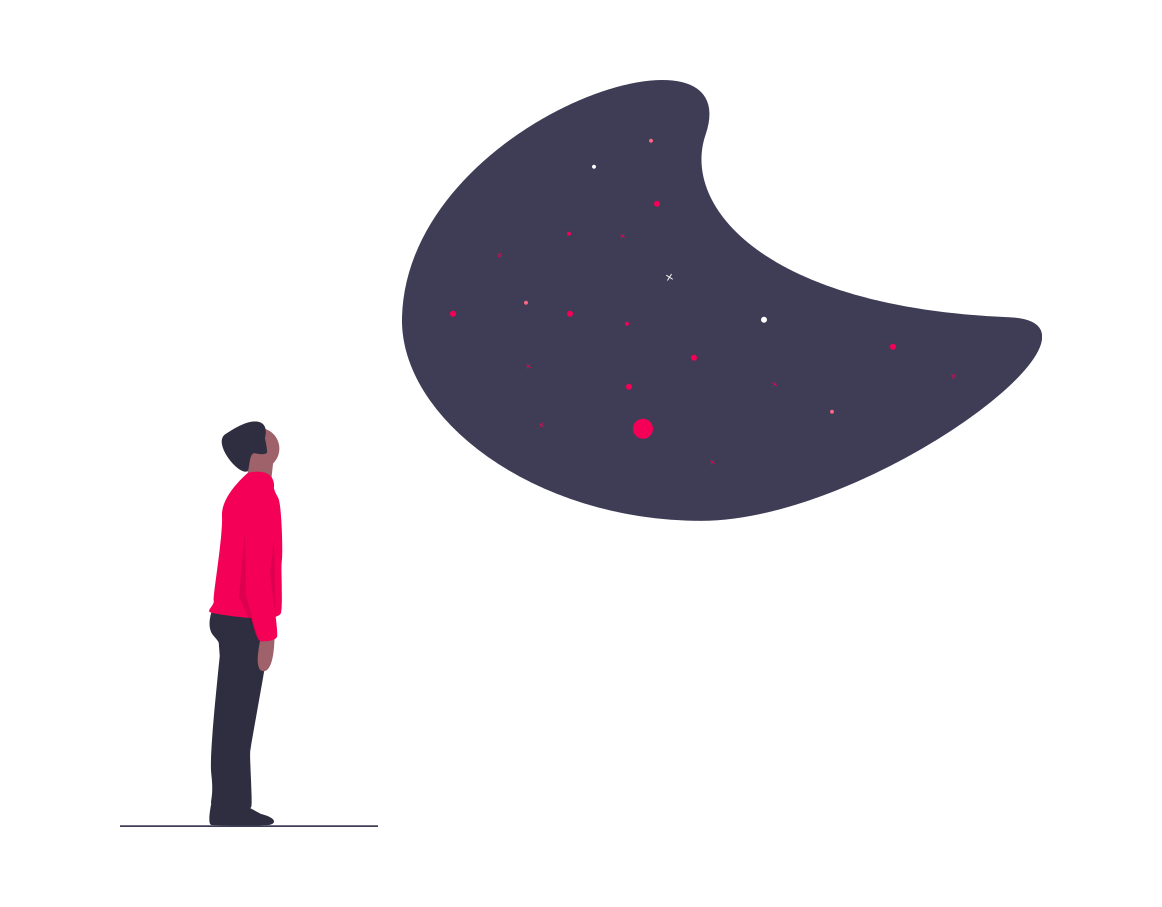
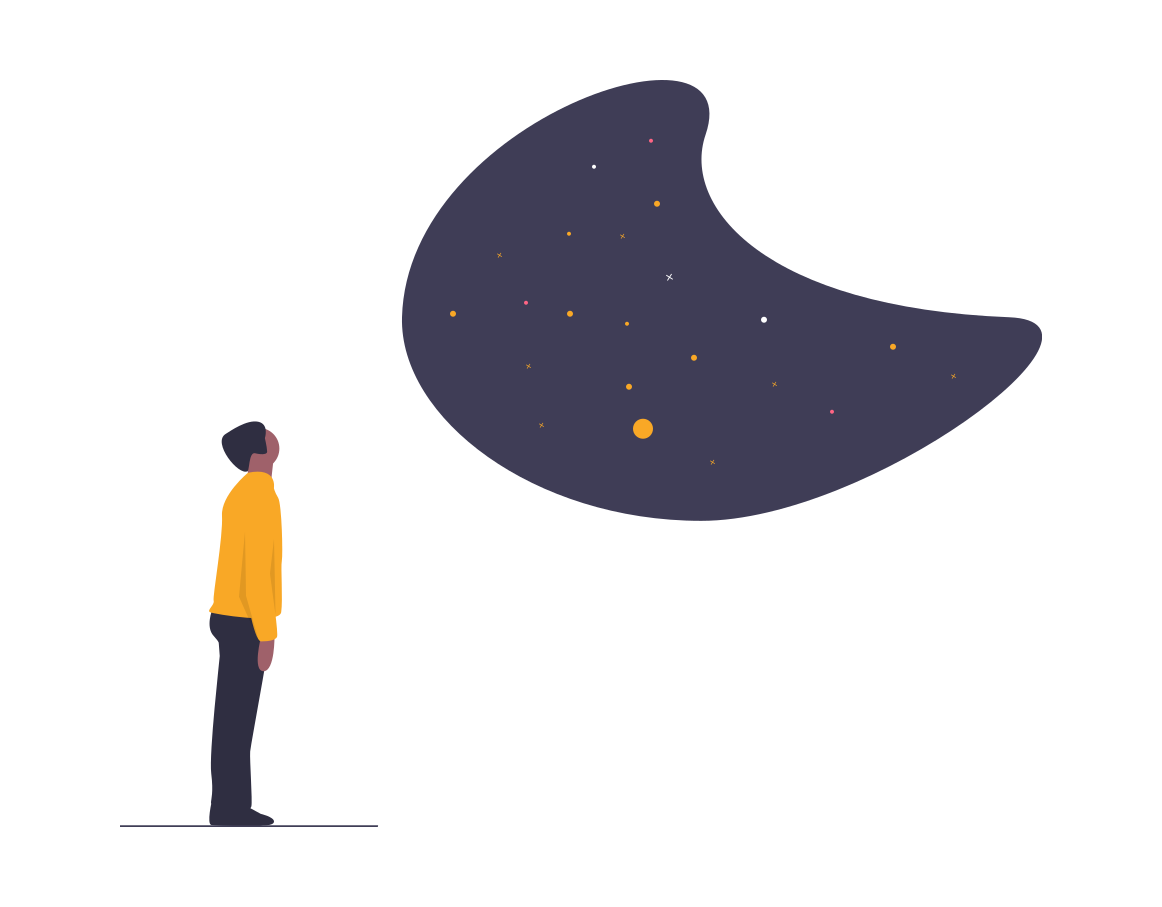
updated coverimages

Changed region(s): [[0.1859, 0.5248, 0.2478, 0.71], [0.5267, 0.4631, 0.5577, 0.4939]]

diff --git a/_drafts/2021-05-19-P003-features-unique-to-python-p1.md b/_drafts/2021-05-19-P003-features-unique-to-python-p1.md
@@ -1,0 +1,92 @@
+---
+title:  "🖐 Listed | 5 Features Unique to Python"
+layout: post
+categories: [python]
+image: /assets/img/P003/cover.png
+description: "Including a list of language specific features that I wish I knew when I had started using python for my projects. This part lists features specific to Lists, Dicts and Functions."
+customexcerpt: "Including a list of language specific features that I wish I knew when I had started using python for my projects. This part lists features specific to Lists, Dicts and Functions."
+---
+![Cover](assets/img/P003/cover.png)
+Illustration Source: "Online Reading" from [https://undraw.co](https://undraw.co/){:target="_blank"}
+
+Python has topped as one of the most sought-after programming language in recent times. Mostly due to its simplicity and a feature-set that makes coding a breeze. This has in turn lead to several tutorials for pythons focusing more on beginner-level topics, but when you look for places to get out of that initial shell, the material is scarce. I am writing this article to act as a bridge in such a case.
+
+This article focuses on Lists, Dictionaries, and Functions. You can use below [Index](#index) as a reference and skip to topics that are relevant to you. Each item is complete in itself and does not require reading any of the prior items, unless explicitly mentioned.
+
+Each list item is divided into 3 sections,
+- Usecase
+- Code Example 
+- More Reference Material 
+
+<br>
+
+# Index
+1. [Generic \| Interpolated f-strings](#generic--interpolated-f-strings)
+2. [Generic \| Assignment Expressions](#generic--assignment-expressions)
+3. [Generic \| Multiple Assignment Unpacking](#generic--multiple-assignment-unpacking)
+4. [List \| List Comprehension](#list--list-comprehension)
+5. [List \| Slicing and Striding](#list--slicing-and-striding)
+
+<br>
+
+## Generic \| Interpolated f-strings
+### Usecase: Formatting Variables in-between String
+There are often times when you need to print/write certain variables to console, file or web. This generally includes formatting variables in-between strings - "e.g: Last Element in list `[1,2,3,4,5]` is `5`". There are several ways to do this, using [string concatenation](https://realpython.com/python-string-split-concatenate-join/){:target="_blank"}, [str.format() function](https://www.geeksforgeeks.org/python-format-function/){:target="_blank"} and [% operator](https://www.geeksforgeeks.org/string-formatting-in-python-using/){:target="_blank"}. But most of the above listed approaches are extremely verbose or hard to maintain. In order to solve those problems, f-strings were introduced in python 3.6. 
+
+**Only supported in Python Version >= 3.6**, and is probably not the best way to go by if you are not sure about run-time python version of your deployment.
+
+### Code Example:
+```python
+num_list = [1,2,3,4,5]
+# If we want to print : 
+#   "Last Element in list [1,2,3,4,5] is 5"
+# Old Approach
+print("Last Element in List %s is %s" % (num_list, num_list[-1]))
+# Using str.format()
+print('Last Element in List {} is {}'.format(num_list, num_list[-1]))
+print('Last Element in List {0} is {1}'.format(num_list, num_list[-1]))
+print('Last Element in List {num_list} is {last_element}'.format(num_list=num_list, last_element=num_list[-1]))
+# Using f-strings
+print(f'Last Element in List {num_list} is {num_list[-1]}')
+```
+String formatting, is not limited to just introducing a variable in-between string, you can do a variety of [fancy things](https://docs.python.org/3.4/library/string.html#formatspec){:target="_blank"} while formating. F-Strings also supports those, here is a [Python String Formatting Mini Language Quick Reference](https://gist.github.com/gauthamchettiar/fa3f32758616611bfecf941809fd598b){:target="_blank"} in case you are curious.
+
+### Reference Material:
+- [https://realpython.com/python-f-strings](https://realpython.com/python-f-strings/){:target="_blank"}
+- [https://realpython.com/python-string-formatting/](https://realpython.com/python-string-formatting/){:target="_blank"}
+- [https://www.python.org/dev/peps/pep-0498/](https://www.python.org/dev/peps/pep-0498/){:target="_blank"}
+
+<br>
+
+## Generic \| Assignment Expressions
+### Usecase: Variables that only has to be scoped inside a code block (`if` or `while`)
+Scoping in python is slightly confusing. Variables defined inside a function cannot be accessed outside of it which is fair, but variables declared inside a code block like `if` or `while` can be accessed outside that code block. This is called scope-leak and often leads to hard-to-debug bugs. So in use-cases where a variable has to be declared exclusively for evaluation inside such a code block, it's best to use Assignment Expressions.
+
+If you are wondering what about `for` loops? Well, it's impossible to not leak for loop variables, that's just how python is designed. You may go ahead and delete assigned variables at the end of for loop if that's what you want. Here's a snippet explaining 
+
+
+### Code Example:
+### Reference Material:
+- [https://realpython.com/python-scope-legb-rule/](https://realpython.com/python-scope-legb-rule/){:target="_blank"}
+- [https://www.python.org/dev/peps/pep-0572/](https://www.python.org/dev/peps/pep-0572/){:target="_blank"}
+
+<br>
+
+## Generic \| Multiple Assignment Unpacking
+### Usecase: 
+### Code Example:
+### Reference Material:
+
+<br>
+
+## List \| List Comprehension
+### Usecase: 
+### Code Example:
+### Reference Material:
+
+<br>
+
+## List \| Slicing and Striding
+### Usecase: 
+### Code Example:
+### Reference Material:

diff --git a/_posts/2021-05-19-P002-guess-the-song-game.md b/_posts/2021-05-19-P002-guess-the-song-game.md
@@ -4,10 +4,10 @@ layout: post
 categories: [game]
 description: "A fun game that can be hosted at any party, ideal for those who loves 90s Bollywood songs."
 customexcerpt: "A fun game that can be hosted at any party, ideal for those who loves 90s Bollywood songs."
-image: "/assets/img/cover.jpg"
+image: "/assets/img/cover.png"
 ---
-![Cover](/assets/img/P002/cover.jpg)
-Photo by <a href="https://unsplash.com/@metelevan?utm_source=unsplash&utm_medium=referral&utm_content=creditCopyText">Andrey Metelev</a> on <a href="https://unsplash.com/s/photos/game?utm_source=unsplash&utm_medium=referral&utm_content=creditCopyText">Unsplash</a>
+![Cover](/assets/img/P002/cover.png)
+Illustration Source: "Happy Music" from [https://undraw.co](https://undraw.co/){:target="_blank"}
 
 <p style='color:grey'>Disclaimer: I am always against using copyrighted images, but this project would have been incomplete without those. Feel free to ask me to take any image down or provide credit against any, I would be more than happy to oblige. This is more like a hobby project and won't and shouldn't be used for any commercial purpose.</p>
 
@@ -54,11 +54,11 @@ Hope that example would have given you a taste of the game, now let me dump ever
 <br><br><br><br><br><br><br>
 
 ## Link to Songs:
-1. [Tip Tip Barsa Paani](https://www.youtube.com/watch?v=BtlnpBb4O8E)
-2. [Dhak Dhak Karne Laga](https://www.youtube.com/watch?v=wWuqJI_kOLQ)
-3. [Chaiyya Chaiyya](https://www.youtube.com/watch?v=0v1It89cKxY)
-4. [Gore Gore Mukhde Pe Kala Kala Chasma](https://www.youtube.com/watch?v=Q_fpEt216FA)
-5. [Chehra Hai Ya Chand Khila](https://www.youtube.com/watch?v=_mzdkxnU4mU)
-6. [Yeh Haseen Wadiyan](https://www.youtube.com/watch?v=z-vcE-UTc-0)
-7. [Tu Hi Re](https://www.youtube.com/watch?v=R3J3IDgKOLM)
-8. [Tum Mile Dil Khile](https://www.youtube.com/watch?v=GtslrDs3RWY)
+1. [Tip Tip Barsa Paani](https://www.youtube.com/watch?v=BtlnpBb4O8E){:target="_blank"}
+2. [Dhak Dhak Karne Laga](https://www.youtube.com/watch?v=wWuqJI_kOLQ){:target="_blank"}
+3. [Chaiyya Chaiyya](https://www.youtube.com/watch?v=0v1It89cKxY){:target="_blank"}
+4. [Gore Gore Mukhde Pe Kala Kala Chasma](https://www.youtube.com/watch?v=Q_fpEt216FA){:target="_blank"}
+5. [Chehra Hai Ya Chand Khila](https://www.youtube.com/watch?v=_mzdkxnU4mU){:target="_blank"}
+6. [Yeh Haseen Wadiyan](https://www.youtube.com/watch?v=z-vcE-UTc-0){:target="_blank"}
+7. [Tu Hi Re](https://www.youtube.com/watch?v=R3J3IDgKOLM){:target="_blank"}
+8. [Tum Mile Dil Khile](https://www.youtube.com/watch?v=GtslrDs3RWY){:target="_blank"}

diff --git a/_drafts/2021-05-19-P004-features-unique-to-python-p2.md b/_drafts/2021-05-19-P004-features-unique-to-python-p2.md
@@ -1,0 +1,51 @@
+---
+title:  "🖐 Listed | 5 Features Unique to Python - Part 2"
+layout: post
+categories: [python]
+image: /assets/img/P004/cover.png
+description: "Including a list of language specific features that I wish I knew when I had started using python for my projects. This part lists features specific to Lists, Dicts and Functions."
+customexcerpt: "Including a list of language specific features that I wish I knew when I had started using python for my projects. This part lists features specific to Lists, Dicts and Functions."
+---
+![Cover](assets/img/P004/cover.png)
+Illustration Source: "Reading List" from [https://undraw.co](https://undraw.co/){:target="_blank"}
+
+Python has topped as one of the most sought-after programming language in recent times. Mostly due to its simplicity and a feature-set that makes coding a breeze. This has in turn lead to several tutorials for pythons focusing more on beginner-level topics, but when you look for places to get out of that initial shell, the material is scarce. I am writing this article to act as a bridge in such a case.
+
+This article focuses on Lists, Dictionaries, and Functions. You can use below [Index](#index) as a reference and skip to topics that are relevant to you. Each item is complete in itself and does not require reading any of the prior items, unless explicitly mentioned.
+
+Each list item is divided into 3 sections,
+- Usecase
+- Code Example 
+- More Reference Material 
+
+# Index
+1. [List \| enumerate(), zip() and itertools.ziplongest() Functions](#list--enumerate-zip-and-itertoolsziplongest-functions)
+2. [Dict \| items(), keys() and values() Functions](#dict--items-keys-and-values-functions)
+3. [Functions \| Positional and Named Arguments](#functions--positional-and-named-arguments)
+4. [Functions \| Variable Positional and Named Arguments](#functions--variable-positional-and-named-arguments)
+5.  [Functions \| Decorators](#functions--decorators)
+
+## List \| enumerate(), zip() and itertools.ziplongest() Functions
+### Usecase: 
+### Code Example:
+### Reference Material:
+
+## Dict \| items(), keys() and values() Functions
+### Usecase: 
+### Code Example:
+### Reference Material:
+
+## Functions \| Positional and Named Arguments
+### Usecase: 
+### Code Example:
+### Reference Material:
+
+## Functions \| Variable Positional and Named Arguments
+### Usecase: 
+### Code Example:
+### Reference Material:
+
+## Functions \| Decorators
+### Usecase: 
+### Code Example:
+### Reference Material:

diff --git a/_posts/2021-02-21-P001-nth-digit-of-an-integer.md b/_posts/2021-02-21-P001-nth-digit-of-an-integer.md
@@ -1,13 +1,13 @@
 ---
 title:  "🧩 OPP | Nth Digit of an Integer | [EASY]"
 layout: post
-categories: [python, opp]
+categories: [python]
 image: /assets/img/P001/cover.png
 description: "OPP or Overanalysing Programming Problems is a Series that explores different ways to solve a programming problem, this article explores - 'Nth Digit of an Integer'"
 customexcerpt: "OPP or Overanalysing Programming Problems is a Series that explores different ways to solve a programming problem, this article explores - 'Nth Digit of an Integer'"
 ---
 ![Cover - Counting Stars](/assets/img/P001/cover.png)
-Illustration Source: "Counting Stars" from [https://undraw.co](https://undraw.co/)
+Illustration Source: "Counting Stars" from [https://undraw.co](https://undraw.co/){:target="_blank"}
 
 Just as I submitted my problem and got a green check across all the tests, I wondered - "How I could have improved it?"
 
@@ -32,7 +32,7 @@ Here's a simple illustration to understand the above problem statement,
 
 Before we start solving this problem, here's an empty method description in python to get you started with. Just copy it over to your preferred editor, code in your solution and RUN IT! 
 
-*Feeling Lazy? Same problem is available on [codewars.com - Find the nth Digit of a Number](https://www.codewars.com/kata/577b9960df78c19bca00007e) with well defined test-cases.*
+*Feeling Lazy? Same problem is available on [codewars.com - Find the nth Digit of a Number](https://www.codewars.com/kata/577b9960df78c19bca00007e){:target="_blank"} with well defined test-cases.*
 
 
 ```python
